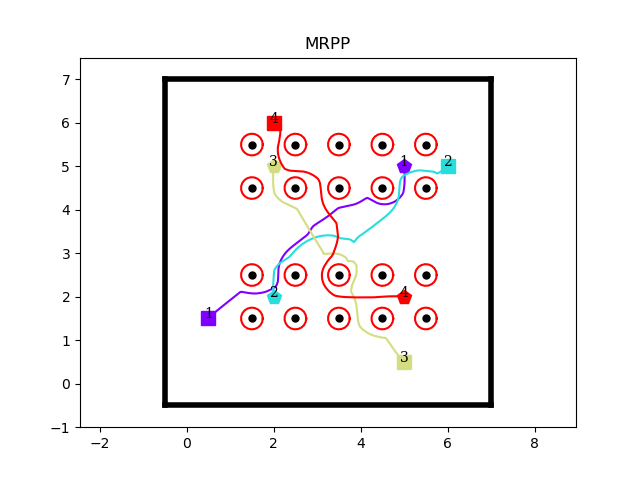
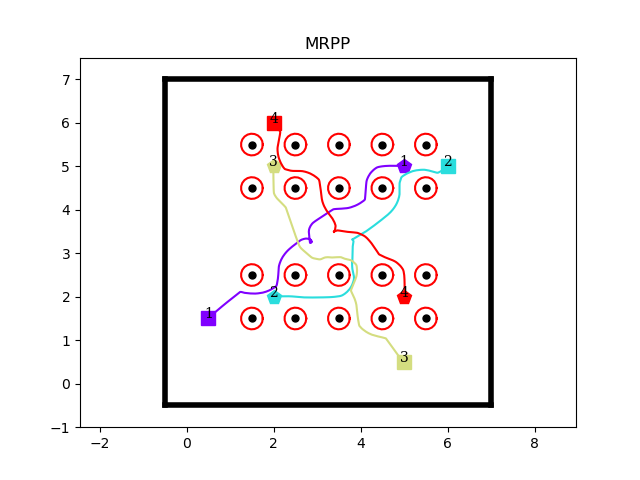
new method

diff --git a/scripts/apf_motion_1.py b/scripts/apf_motion_1.py
@@ -40,10 +40,11 @@ class ApfMotion(object):
         self.w_max = init_params.angular_max_speed
 
         # parameters & settings
+        self.fix_f = 4
         self.prioriy = robot.priority
         self.topic_type = Odometry
         self.zeta = init_params.zeta
-        self.robot_r = init_params.robot_r
+        self.robot_r = 0.5 # init_params.robot_r
         self.w_coeff = init_params.w_coeff
         self.dis_tresh = init_params.dis_tresh
         self.f_r_min = init_params.f_r_min #
@@ -98,8 +99,8 @@ class ApfMotion(object):
             self.v_ang.append(self.w)
 
             if stop_flag:
-                self.v = self.v/3
-                # self.w = self.w/3
+                self.v = 0 #self.v/3
+                self.w = 0 #self.w/3
                 # self.stop()
                 # continue
 
@@ -129,7 +130,7 @@ class ApfMotion(object):
         #     v = 0 + self.v_min/10
         #     w = self.w_max * np.sign(theta)
         # else:
-        theta_thresh = 30*np.pi/180
+        theta_thresh = self.theta_thresh
         v = self.v_max * max(0, (1- (abs(theta)/theta_thresh)))**1 #+ self.v_min/2
         w = theta * self.w_coeff * 4 * (abs(theta)/theta_thresh)
         v = min(v, self.v_max)
@@ -170,32 +171,34 @@ class ApfMotion(object):
             dx = -(resp.x[i]-self.r_x)
             dy = -(resp.y[i]-self.r_y)
             d_ro = np.sqrt(dx**2+dy**2)
+            theta = np.arctan2(dy, dx)
+            angle_diff = theta - self.r_theta
+            angle_diff = np.arctan2(np.sin(angle_diff), np.cos(angle_diff))
             
-            robot_r = 0.4
-            if d_ro >= 2*robot_r:
+            robot_r = self.robot_r
+            if d_ro >= 2*robot_r or abs(angle_diff)<np.pi/2:
                 f = 0
                 continue
             else:
-                if resp.priority[i]>0:
+                if resp.priority[i]>0 and abs(angle_diff)>np.pi/2 and d_ro <= robot_r:
                     self.stop_flag = True
-                theta = np.arctan2(dy, dx)
-                angle_diff = theta - self.r_theta
-                angle_diff = np.arctan2(np.sin(angle_diff), np.cos(angle_diff))
+                    break
                 
                 if d_ro > robot_r:
-                    f = 4 * (2*robot_r-d_ro)/robot_r
-                    templ = [f*np.cos(angle_diff), f*np.sin(angle_diff)]
-                    if angle_diff>0:
-                        phi = theta-np.pi/2
-                    else:
-                        phi = theta+np.pi/2
-                    angle_diff = phi - self.r_theta
-                    angle_diff = np.arctan2(np.sin(angle_diff), np.cos(angle_diff))
-                    templ[0] += f*np.cos(angle_diff)
-                    templ[1] += f*np.sin(angle_diff)                    
+                    f = self.fix_f * (2*robot_r-d_ro)/robot_r           
                 else:
-                    f = 4 + ((self.zeta*1)*((1/d_ro)-(1/robot_r))**2)*(1/d_ro)**2 
-                    templ = [f*np.cos(angle_diff), f*np.sin(angle_diff)]
+                    f = self.fix_f + ((self.zeta*1)*((1/d_ro)-(1/robot_r))**2)*(1/d_ro)**2 
+
+                templ = [f*np.cos(angle_diff), f*np.sin(angle_diff)]
+                if angle_diff>0:
+                    phi = theta-np.pi/2
+                else:
+                    phi = theta+np.pi/2
+                angle_diff = phi - self.r_theta
+                angle_diff = np.arctan2(np.sin(angle_diff), np.cos(angle_diff))
+                templ[0] += f*np.cos(angle_diff)
+                templ[1] += f*np.sin(angle_diff)   
+
             self.robot_f[0] += round(templ[0], 3)
             self.robot_f[1] += round(templ[1], 3)
 
@@ -204,8 +207,7 @@ class ApfMotion(object):
         dy = self.goal_y - self.r_y
         goal_distance = np.sqrt(dx**2+dy**2)
         # f = self.zeta * goal_distance
-        # f = f *10
-        f = 4 # 1.5
+        f = self.fix_f 
         theta = np.arctan2(dy, dx)
         angle_diff = theta - self.r_theta
         angle_diff = np.arctan2(np.sin(angle_diff), np.cos(angle_diff))
@@ -230,19 +232,20 @@ class ApfMotion(object):
                 angle_diff = np.arctan2(np.sin(angle_diff), np.cos(angle_diff))
                 
                 if d_ro > obs_effect_r:
-                    f = 4 * (2*obs_effect_r-d_ro)/obs_effect_r
-                    templ = [f*np.cos(angle_diff), f*np.sin(angle_diff)]
-                    if angle_diff>0:
-                        phi = theta-np.pi/2
-                    else:
-                        phi = theta+np.pi/2
-                    angle_diff = phi - self.r_theta
-                    angle_diff = np.arctan2(np.sin(angle_diff), np.cos(angle_diff))
-                    templ[0] += f*np.cos(angle_diff)
-                    templ[1] += f*np.sin(angle_diff)                    
+                    f = self.fix_f * (2*obs_effect_r-d_ro)/obs_effect_r
                 else:
-                    f = 4 + ((self.zeta*1)*((1/d_ro)-(1/obs_effect_r))**2)*(1/d_ro)**2 
-                    templ = [f*np.cos(angle_diff), f*np.sin(angle_diff)]
+                    f = self.fix_f + ((self.zeta*1)*((1/d_ro)-(1/obs_effect_r))**2)*(1/d_ro)**2 
+                
+                templ = [f*np.cos(angle_diff), f*np.sin(angle_diff)]
+                if angle_diff>0:
+                    phi = theta-np.pi/2
+                else:
+                    phi = theta+np.pi/2
+                angle_diff = phi - self.r_theta
+                angle_diff = np.arctan2(np.sin(angle_diff), np.cos(angle_diff))
+                templ[0] += f*np.cos(angle_diff)
+                templ[1] += f*np.sin(angle_diff)        
+
             self.obs_f[0] += round(templ[0], 3)
             self.obs_f[1] += round(templ[1], 3)
 

diff --git a/scripts/model_inputs.py b/scripts/model_inputs.py
@@ -90,14 +90,14 @@ class ModelInputs():
         self.y_obst = yc2
 
         # robots
-        self.robot_count = 13
+        self.robot_count = 12
         # robots
-        robot_count = 13
+        robot_count = 12
         self.ids = list(range(1,robot_count+1))
         self.heading = [0.0 for i in range(robot_count)]
-        self.xs = [1, 12, 10, 4, 12, 1, 6, 1, 10,1, 8, 3, 4]
-        self.ys = [3, 10, 1, 12, 6, 8, 10, 6, 9, 12, 11, 1, 5]
-        self.xt = [10, 4, 4, 10, 3, 10, 6, 7, 1, 5, 2, 10, 5]
-        self.yt = [10, 4, 10, 4, 8, 7, 5, 7, 7, 8, 1, 13, 7]
+        self.xs = [1, 12, 10, 4, 12, 1, 6, 1, 10,1, 8, 3]
+        self.ys = [3, 10, 1, 12, 6, 8, 10, 6, 9, 12, 11, 1]
+        self.xt = [10, 4, 4, 10, 3, 10, 6, 7, 1, 5, 2, 10]
+        self.yt = [10, 4, 10, 4, 8, 7, 5, 7, 7, 8, 1, 13]
 
 

diff --git a/scripts/pose_service.py b/scripts/pose_service.py
@@ -1,6 +1,5 @@
 #! /usr/bin/env python
 
-from cmath import sqrt
 import rospy
 from nav_msgs.msg import Odometry
 from apf.srv import SharePoses2, SharePoses2Response
@@ -58,7 +57,7 @@ class PoseService(object):
             if i==req_i:
                 continue
             distance = ((self.xt[i]-xy[i][0])**2 + (self.yt[i]-xy[i][1])**2)
-            if distance<d0:
+            if distance>d0:
                 priorities.append(1)
             else:
                 priorities.append(-1)

diff --git a/scripts/robot_action_server.py b/scripts/robot_action_server.py
@@ -4,7 +4,7 @@
 
 import rospy
 import actionlib
-from apf_motion_0 import ApfMotion
+from apf_motion_1 import ApfMotion
 from nav_msgs.msg import Odometry
 from apf.srv import SharePoses2, SharePoses2Request
 from tf.transformations import euler_from_quaternion
